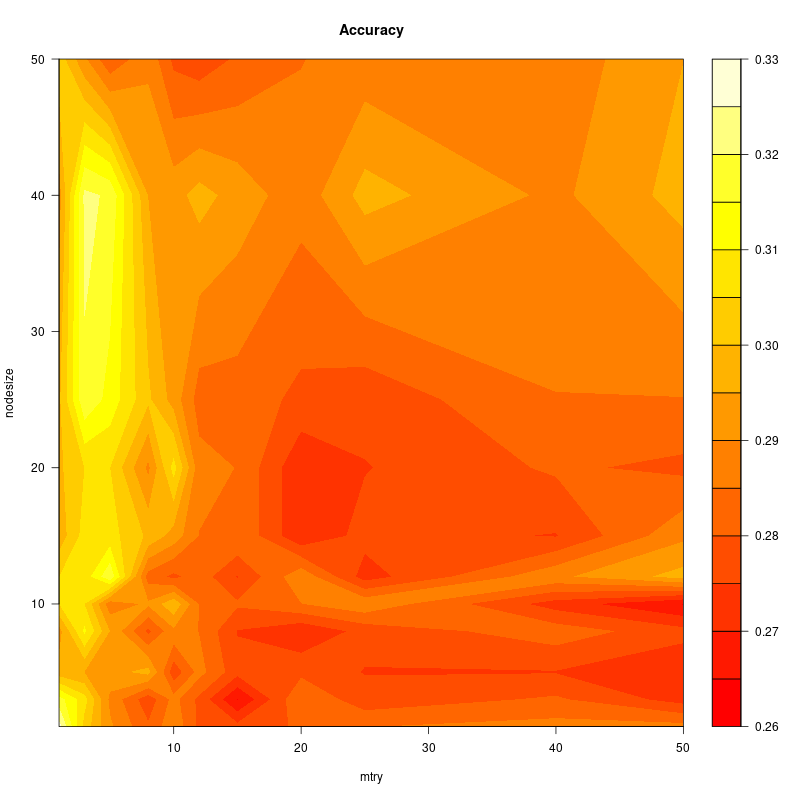
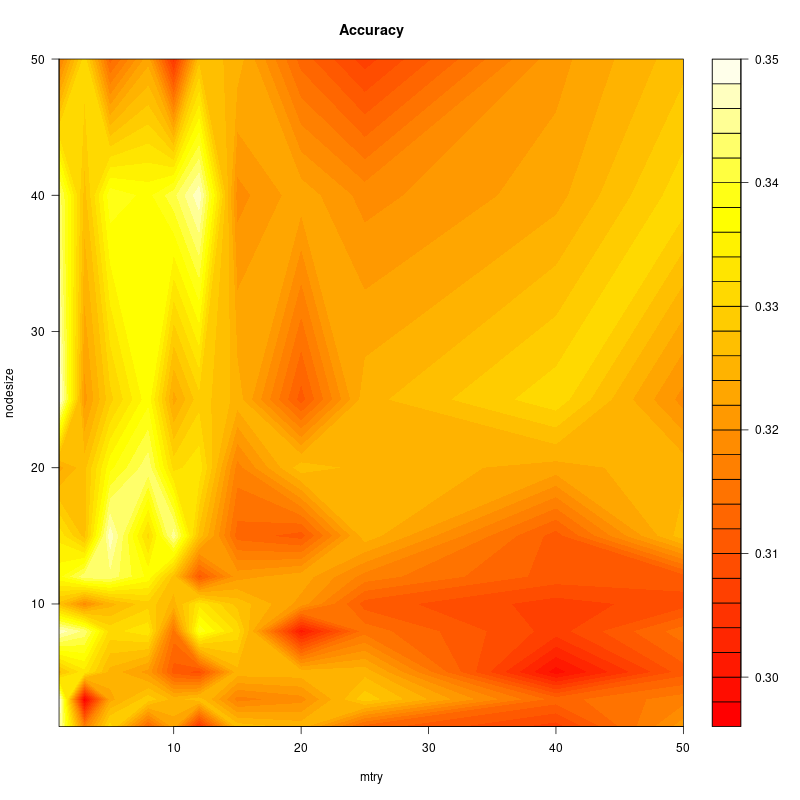
updated the codes and report with lightbgm, random forest and linear regression

diff --git a/Final_Report.tex b/Final_Report.tex
@@ -343,14 +343,14 @@ Based on the \hyperref[fig:PCA_and_UMAP]{PCA and UMAP figure}, we can see that t
 Since we have learnt from the Kaggle discussion that the linear regression models are not really effective for this dataset, 
 we consider a penalty and see if it leads to a good performance. 
 We start with raw Ridge and LASSO regression models. Using the \texttt{glmnet} package with 10-fold cross validation, 
-we get the $R^2 \approx 0.34$ for both Ridge and LASSO regression when predicting with \texttt{lambda.min}. 
+we get the $R^2 \approx 0.49$ for both Ridge and LASSO regression when predicting with \texttt{lambda.min}. 
 This is not a good result, so we try the elastic net and lambda values for tuning. 
 \paragraph{Elastic Net}
 The elastic net is a combination of the Ridge and LASSO regression as shown in the lecture. 
 The related tuning parameter is $\alpha$, which decides the proportion of the two penalties. 
 In this setting, we iterate all $\alpha \in [0, 1]$ with 0.01 increments. 
 In additional, we use the default lambda sequences for each $\alpha$. 
-The tuning result is shown in \hyperref[fig:elastic_net]{Figure 2}.
+The tuning result is shown in \hyperref[fig:elastic_net]{Figure 3}.
 \begin{figure}[H]
     \centering
     \includegraphics*[scale=0.25]{figures/elastic_net.png}
@@ -367,7 +367,7 @@ if a large penalty can influence the prediction. The lambda grid we use is
 \begin{align*}
     \texttt{lambda} = \texttt{exp(seq(-5, 5, 0.05))}
 \end{align*}
-The average tuning result with 100 simulations is shown in \hyperref[fig:lambda]{Figure 3}.
+The average tuning result with 100 simulations is shown in \hyperref[fig:lambda]{Figure 4}.
 \begin{figure}[H]
     \centering
     \includegraphics*[scale=0.25]{figures/lambda.png}
@@ -384,18 +384,50 @@ helps to select features, they cannot help with the prediction without the linea
 
 \subsection{Regression Model 3: LightBGM}
 This model is inspired by ZhengHeng's method as presented in the literature review.
-To recap the method, it 
+To recap the method, it is a gradient boosting framework that uses tree based algorithms. 
+Upon many objectives, we choose the regression model. 
+A raw fitting with default parameters yields an $R^2 \approx 0.55$. 
+Then we choose to tune three parameters and check their effects on the prediction.
+\begin{itemize}
+    \item \texttt{n\_rounds}: the number of learnings iterations
+    \item \texttt{learning\_rate}: the shrinkage rate, the default value is 0.1
+    \item \texttt{num\_leaves}: maximal number of leaves inside a tree 
+\end{itemize}
+Since there are three parameters to tune, we fix a rather small grid for simplicity. 
+\begin{align*}
+    \texttt{nrounds = c(10, 20, 30)} \\
+    \texttt{learning\_rate = c(0.1, 0.01, 0.001)} \\
+    \texttt{num\_leaves = c(10, 20, 30)}
+\end{align*}
+\begin{figure}[H]
+    \centering
+    \includegraphics*[scale=0.25]{figures/rsquare_lightbgm.png}
+    \caption{Ridge: Tuning lightbgm}
+\label{fig:lightbgm}
+\end{figure}
+In \hyperref[fig:lambda]{Figure 5}, it can be observed that \texttt{num\_leaves} is a decidable 
+paramter for the prediction, where the best $R^2 \approx 0.55$ was already given by the default value.
+\texttt{learning\_rate}, on the other hand, would slightly affect the prediction: 
+the accuracy $R^2$ increases slightly, as the learning rate decreases. While the other two 
+paramters do have an influence, \texttt{nrounds} is not really effective here:
+because a fast convergence of the predicion is easily witnessed.  
+
+Different from what we have expected, the lightbgm model does not significantly rely on the computation power. 
+Without using a GPU, we still manage to train and use the model in a reasonable time. 
+Similarly, it did not yield an extraordinarily good result, either. Although the result is much better
+than the classical regressors and classifierse, it is still not comparable to deep learning models 
+that conquer the leaderboard.
 
 \subsection{Classification Model: Random Forest}
 For classification, we choose the random forest model using the R package \texttt{randomForest}.
-The simple fitting using the default parameters gives us an \texttt{accuracy} of $\alpha = 0.2848$. 
+The simple fitting using the default parameters gives us an \texttt{accuracy} of $\alpha = 0.3232$. 
 Taking look at the confusion matrix, we found that prediction is concentrated along the diagonal, 
 but does not have a high accuracy. So we present a new metric, \texttt{accuracy with tolerance}. 
 This is the percentage of observations that are predicted within a tolerance $0.5$ of the true value.
 \begin{align*}
     \tau = \texttt{Accuracy with tolerance} = \dfrac{\sum \texttt{diag} + \sum \texttt{subdiag} + \sum \texttt{superdiag}}{\sum \texttt{Observations}}
 \end{align*}
-In the simple fitting, $\tau = 0.6909$, which proves a good concentrtion of random forest model. 
+In the simple fitting, $\tau = 0.7232$, which proves a good concentrtion of random forest model. 
 \paragraph{Parameter Tuning}
 The tuning goal of the model is to increase both the \texttt{accuracy} and the \texttt{accuracy with tolerance}.
 Amongst many tuning parameters of random forest, we focus on \texttt{mtry} and \texttt{nodesize} with default 
@@ -404,10 +436,10 @@ Amongst many tuning parameters of random forest, we focus on \texttt{mtry} and \
     \texttt{mtry} &\in \{1, 3, 5, 8, 10, 12, 15, 20, 25, 40,  50 \} \\
     \texttt{nodesize} &\in \{1, 3, 5, 8, 10, 12, 15, 20, 25, 40,  50 \}
 \end{align*}
-where the default values are $\texttt{mtry} = 3$ and $\texttt{nodesize} = 1$. 
-The \hyperref[fig:contour]{contour plots} shows a best fit at $\texttt{mtry} \approx 3$ and $\texttt{nodesize} \approx 10$.
-We may conclude that the effect of the random forest model is limited at $\alpha \approx 0.3$
-and $\tau \approx 0.7$. Since there is an obvious concentration, 
+where the default values are $\texttt{mtry} = 5$ and $\texttt{nodesize} = 1$. 
+The \hyperref[fig:contour]{contour plots} shows a best fit at $\texttt{mtry} \approx 11$ and $\texttt{nodesize} \approx 40$.
+We may conclude that the effect of the random forest model is limited at $\alpha \approx 0.35$
+and $\tau \approx 0.75$. Since there is an obvious concentration, 
 this model is useful in the sense that it can show a general trend of the score.
 However, it is not a good choice for sophisticated prediction as of the low accuracy.
 \begin{figure}[H]
@@ -419,11 +451,6 @@ However, it is not a good choice for sophisticated prediction as of the low accu
 
 \paragraph{Variable Importance}
 Another property of the random forest model is that it can provide a report on variable importance. 
-Taking a look at \texttt{MeanDecreaseAccuracy} and \texttt{MeanDecreaseGini}, 
-we found that the ratios features are much more importance than the raw value features. 
-For instance, the \texttt{MeanDecreaseAccuracy} of \texttt{ratio\_word\_count} is $81.40$, 
-while that of \texttt{Input\_count} is only $5.94$. We may tell from this phenomenon that
-the ratio features are more informative than the raw value features. 
-And a good feature engineering strategy results in better classification accuracy. 
+A brief analysis and visualizatin of importance was already shown in \hyperref[fig:RF_important]{Variable Importance Based on Random Forest}.
 
 \end{document}
